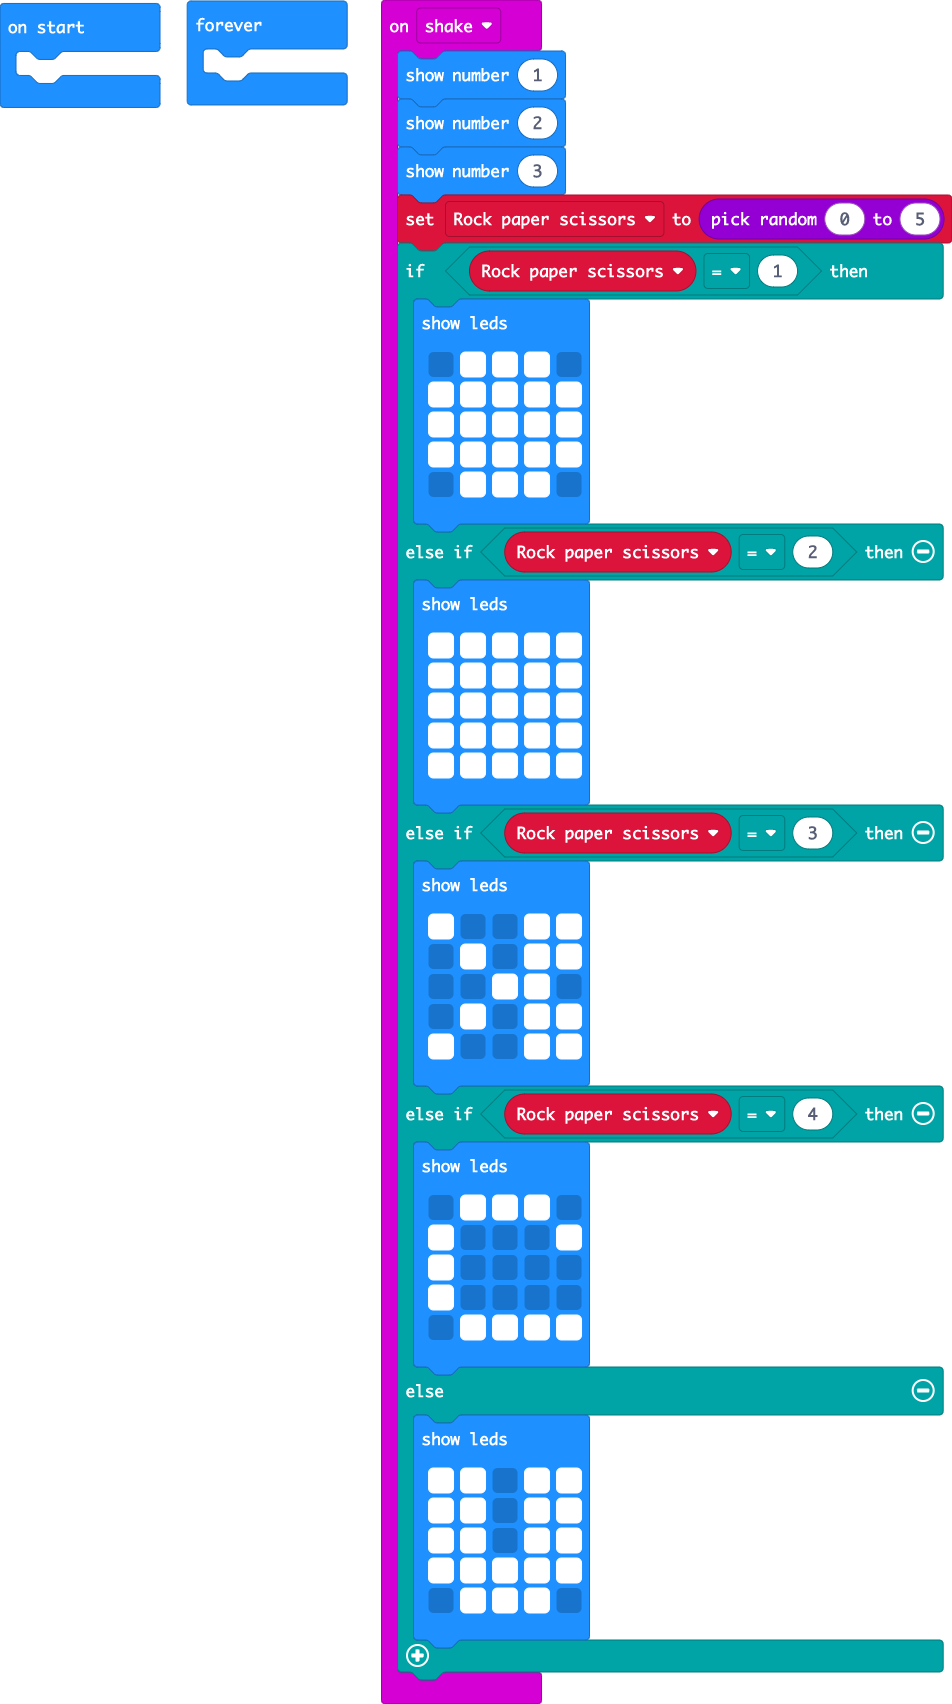
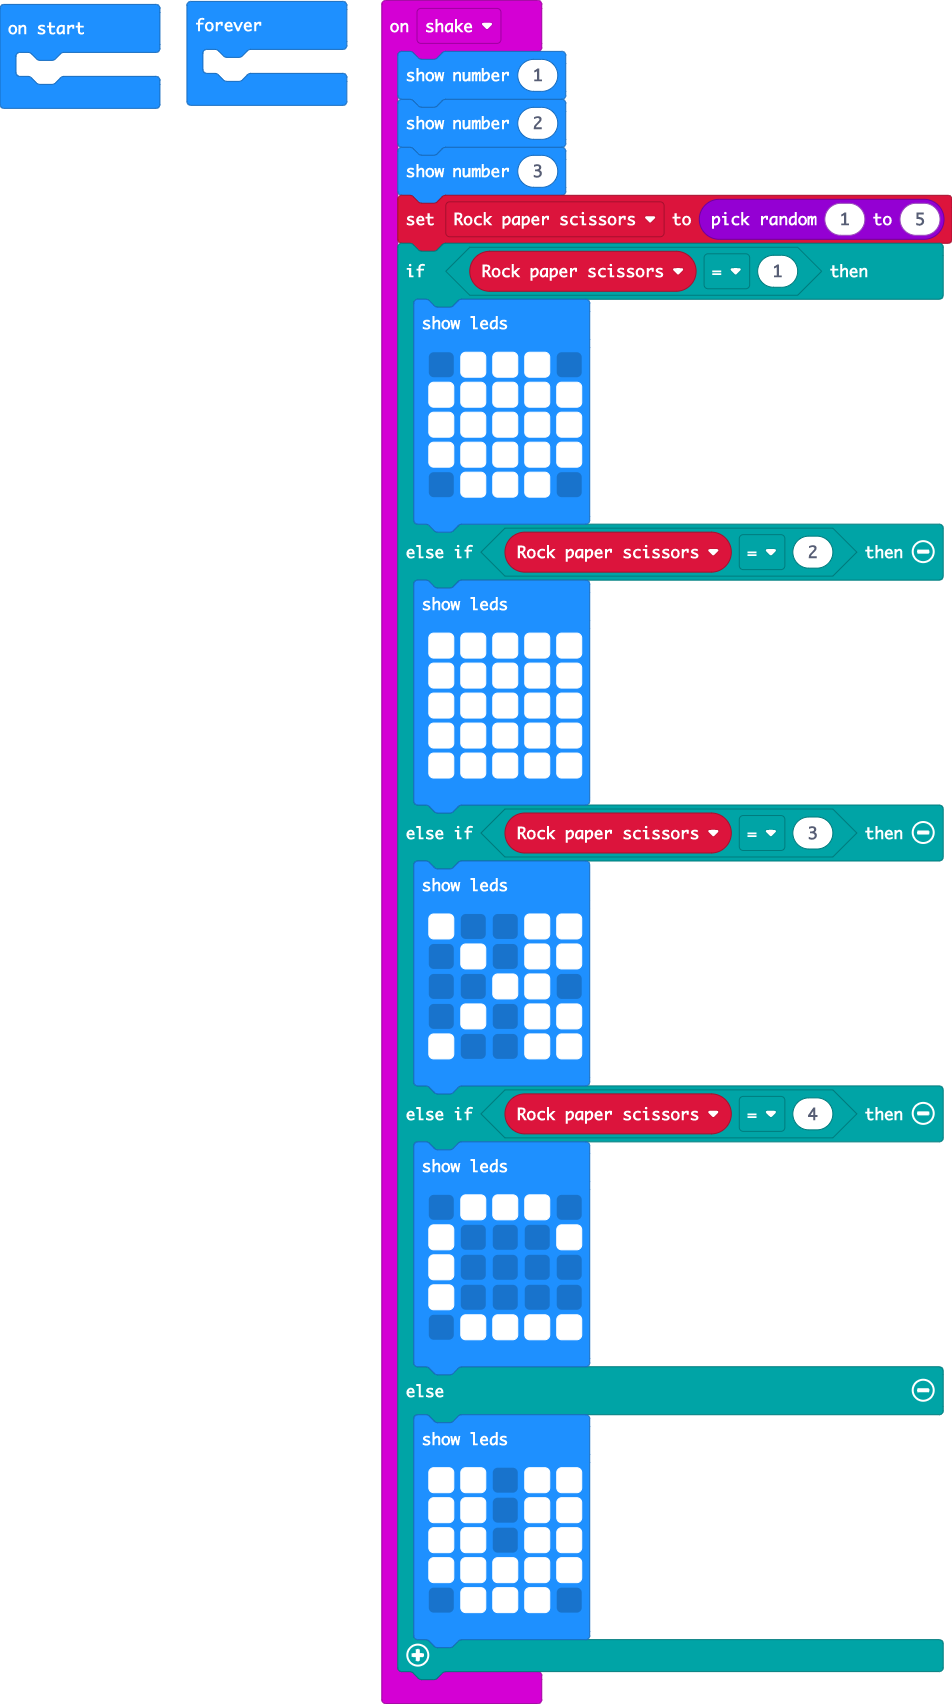
... there was a bug in the rewrite

diff --git a/main.ts b/main.ts
@@ -3,7 +3,7 @@ input.onGesture(Gesture.Shake, function () {
     basic.showNumber(1)
     basic.showNumber(2)
     basic.showNumber(3)
-    Rock_paper_scissors = randint(0, 5)
+    Rock_paper_scissors = randint(1, 5)
     if (Rock_paper_scissors == 1) {
         basic.showLeds(`
             . # # # .
